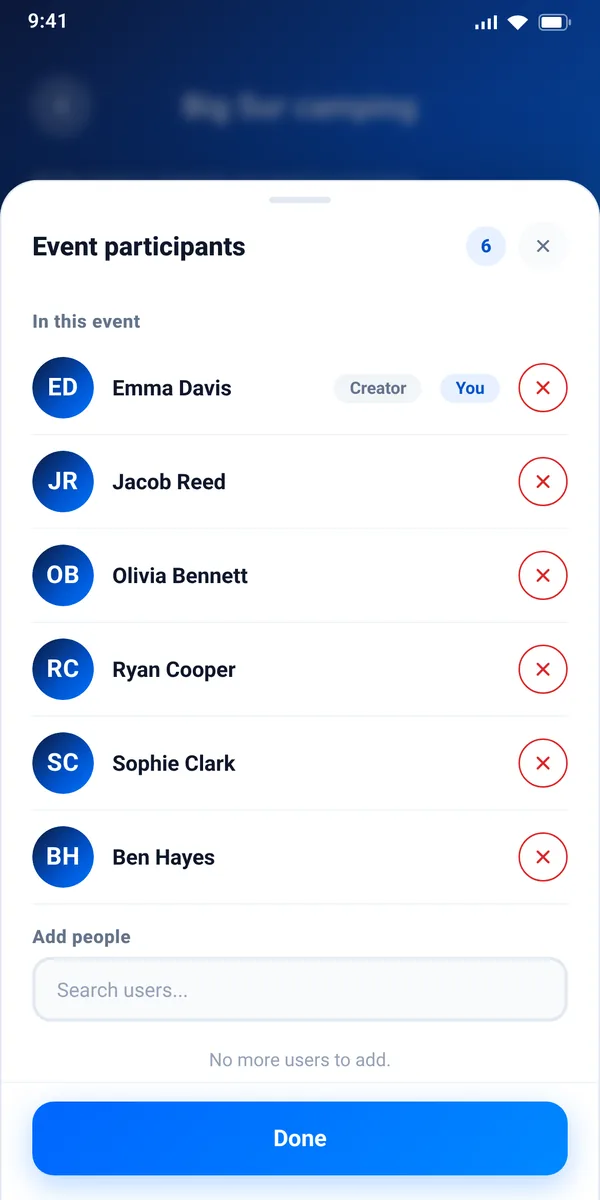
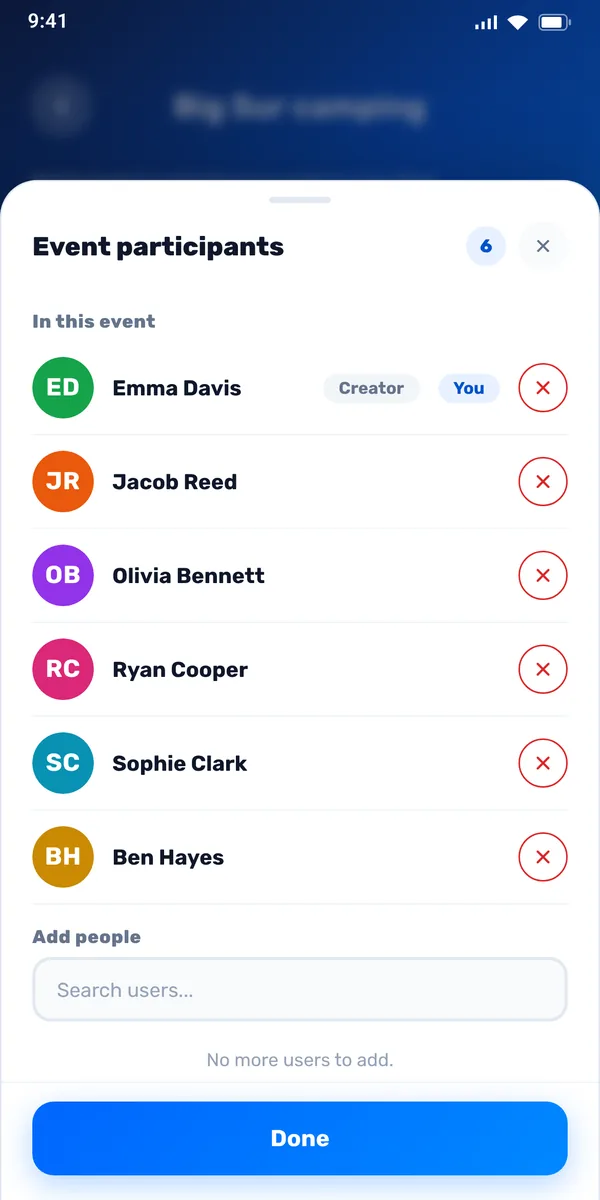
Landing: new screens (who buys what, colors, PDF summary), 3 new features, 2 FAQs; terms: copying and sharing the PDF summary
Claude-Session: https://claude.ai/code/session_01DxTXR77ZP1tksXMHBDh7hU

diff --git a/index.html b/index.html
@@ -300,9 +300,12 @@ footer{padding:40px 0 56px;color:var(--muted);font-size:.92rem}
         <div class="feat rv"><div class="ic">💸</div><h3 data-t="ft1">חלוקת הוצאות</h3><p data-t="fd1">שווה בשווה, רק בין חלק מהמשתתפים או בסכומים ידניים. המאזן מתעדכן לבד.</p></div>
         <div class="feat rv"><div class="ic">🤝</div><h3 data-t="ft2">מי חייב למי</h3><p data-t="fd2">האפליקציה מצמצמת את מספר ההעברות למינימום, ואפשר לסגור חוב בלחיצה דרך Bit.</p></div>
         <div class="feat rv"><div class="ic">💱</div><h3 data-t="ft3">כמה מטבעות</h3><p data-t="fd3">משלמים באירו ומתחשבנים בשקלים. ההמרה נעשית לפי שער עדכני, ויש גם מחשבון המרה מהיר.</p></div>
-        <div class="feat rv"><div class="ic">🗺</div><h3 data-t="ft4">מסלול ולוח זמנים</h3><p data-t="fd4">פעילויות לפי ימים ושעות, ניווט מהיר לכל נקודה, וכל אחד מסמן אם הוא מגיע. יוצאים שוב? מעתיקים מסלול, ציוד וקניות מאירוע קודם מאותו סוג (בארץ או בחו״ל).</p></div>
+        <div class="feat rv"><div class="ic">🗺</div><h3 data-t="ft4">מסלול ולוח זמנים</h3><p data-t="fd4">פעילויות לפי ימים ושעות, ניווט מהיר לכל נקודה, וכל אחד מסמן אם הוא מגיע.</p></div>
         <div class="feat rv"><div class="ic">⛺</div><h3 data-t="ft5">ציוד וקניות</h3><p data-t="fd5">רשימה משותפת עם צבע לכל אחד (ואפשר לבחור את הצבע שלך): מי מביא ומי קונה מה, לחיצה על "אני אקנה" ותצוגה של מה שלי. קנייה שבוצעה נרשמת כהוצאה בלחיצה.</p></div>
-        <div class="feat rv"><div class="ic">⚡</div><h3 data-t="ft6">סנכרון בזמן אמת</h3><p data-t="fd6">כל שינוי מופיע מיד אצל כולם, עם התראות על מה שחשוב. בשטח, בלי קליטה, ממשיכים לצפות במה שנשמר בטלפון. שינויים נעשים כשחוזר החיבור.</p></div>
+        <div class="feat rv"><div class="ic">⚡</div><h3 data-t="ft6">סנכרון בזמן אמת</h3><p data-t="fd6">כל שינוי מופיע מיד אצל כולם, עם התראות על מה שחשוב.</p></div>
+        <div class="feat rv"><div class="ic">📄</div><h3 data-t="ft7">סיכום האירוע ב-PDF</h3><p data-t="fd7">מסלול, הוצאות, מי מעביר למי, ציוד וקניות במסמך אחד מעוצב. נשלח לקבוצה בלחיצה, גם באמצע הטיול.</p></div>
+        <div class="feat rv"><div class="ic">📋</div><h3 data-t="ft8">יוצאים שוב? מעתיקים</h3><p data-t="fd8">מעתיקים מסלול, ציוד וקניות מאירוע קודם מאותו סוג (בארץ או בחו״ל), בלי להקליד הכל מחדש.</p></div>
+        <div class="feat rv"><div class="ic">📡</div><h3 data-t="ft9">צפייה גם בלי קליטה</h3><p data-t="fd9">בשטח, בלי קליטה, ממשיכים לצפות במה שנשמר בטלפון. שינויים נעשים כשחוזר החיבור.</p></div>
       </div>
     </div>
   </section>
@@ -333,11 +336,11 @@ footer{padding:40px 0 56px;color:var(--muted);font-size:.92rem}
       <div class="show">
         <div class="show-text rv">
           <span class="eyebrow" data-t="sh3_eb">ציוד וקניות</span>
-          <h3 data-t="sh3_h">אף אחד לא שוכח את הפחמים</h3>
-          <p data-t="sh3_p">רשימה אחת לכל מה שצריך להביא ולקנות. משייכים כל פריט למישהו, מסמנים כשזה מוכן, ורואים מה עוד חסר.</p>
-          <ul class="ticks"><li data-t="sh3_l1">ציוד, משימות ורשימת קניות משותפת</li><li data-t="sh3_l2">שיוך כל פריט למשתתף</li><li data-t="sh3_l3">רואים מיד מה כבר מכוסה</li></ul>
+          <h3 data-t="sh3_h">מי מביא, מי קונה, ומה כבר נקנה</h3>
+          <p data-t="sh3_p">לכל משתתף צבע משלו. כל אחד לוחץ "אני אקנה" או "אני אביא", רואים את הרשימה לפי אחראי, ומה שנקנה נרשם כהוצאה בלחיצה, בלי לספור פעמיים.</p>
+          <ul class="ticks"><li data-t="sh3_l1">צבע לכל משתתף, ואפשר לבחור את שלך</li><li data-t="sh3_l2">תצוגה לפי קטגוריה, לפי אחראי, או רק מה שלי</li><li data-t="sh3_l3">קנייה שבוצעה הופכת להוצאה בלחיצה</li></ul>
         </div>
-        <div class="show-visual rv"><div class="phone real"><div class="screen"><img class="shot" data-shot="07-gear" data-ta="alt_07" src="assets/img/screens/he/07-gear.webp" width="600" height="1200" alt="רשימת ציוד ומשימות לפי מי מביא מה" loading="lazy" decoding="async"><div class="notch"></div></div></div></div>
+        <div class="show-visual rv"><div class="phone real"><div class="screen"><img class="shot" data-shot="12-shopping-by-person" data-ta="alt_12" src="assets/img/screens/he/12-shopping-by-person.webp" width="600" height="1200" alt="רשימת קניות לפי מי קונה, עם צבע לכל משתתף" loading="lazy" decoding="async"><div class="notch"></div></div></div></div>
       </div>
       <div class="show flip">
         <div class="show-text rv">
@@ -367,10 +370,10 @@ footer{padding:40px 0 56px;color:var(--muted);font-size:.92rem}
     <div class="wrap">
       <div class="sec-head center rv"><span class="eyebrow" data-t="sc_eb">הצצה לאפליקציה</span><h2 data-t="sc_h">ככה זה נראה בטלפון</h2><p class="lead" data-t="sc_p">מסכים אמיתיים מהאפליקציה, עם טיול לדוגמה.</p></div>
       <div class="strip rv">
-        <figure><div class="phone real sm"><div class="screen"><img class="shot" data-shot="02-trip-hub" data-ta="alt_02" src="assets/img/screens/he/02-trip-hub.webp" width="600" height="1200" alt="מסך האירוע: תקציב והוצאות, ציוד וקניות, מסלול ותמונות" loading="lazy" decoding="async"><div class="notch"></div></div></div><figcaption><span data-t="scf1">כל הכלים של האירוע</span><small data-t="scs1">תקציב, ציוד, מסלול ותמונות</small></figcaption></figure>
+        <figure><div class="phone real sm"><div class="screen"><img class="shot" data-shot="02-trip-hub" data-ta="alt_02" src="assets/img/screens/he/02-trip-hub.webp" width="600" height="1200" alt="מסך האירוע: תקציב והוצאות, ציוד וקניות, מסלול ותמונות" loading="lazy" decoding="async"><div class="notch"></div></div></div><figcaption><span data-t="scf1">כל הכלים של האירוע</span><small data-t="scs1">תקציב, ציוד, מסלול, תמונות וסיכום PDF</small></figcaption></figure>
         <figure><div class="phone real sm"><div class="screen"><img class="shot" data-shot="05-add-expense" data-ta="alt_05" src="assets/img/screens/he/05-add-expense.webp" width="600" height="1200" alt="הוספת הוצאה חדשה עם מי שילם ואופן החלוקה" loading="lazy" decoding="async"><div class="notch"></div></div></div><figcaption><span data-t="scf2">הוספת הוצאה</span><small data-t="scs2">מי שילם ואיך מתחלקים</small></figcaption></figure>
-        <figure><div class="phone real sm"><div class="screen"><img class="shot" data-shot="03-members" data-ta="alt_03" src="assets/img/screens/he/03-members.webp" width="600" height="1200" alt="ניהול המשתתפים באירוע" loading="lazy" decoding="async"><div class="notch"></div></div></div><figcaption><span data-t="scf3">ניהול משתתפים</span><small data-t="scs3">מזמינים חברים מאנשי הקשר</small></figcaption></figure>
-        <figure><div class="phone real sm"><div class="screen"><img class="shot" data-shot="08-shopping" data-ta="alt_08" src="assets/img/screens/he/08-shopping.webp" width="600" height="1200" alt="רשימת קניות משותפת לפי קטגוריות" loading="lazy" decoding="async"><div class="notch"></div></div></div><figcaption><span data-t="scf4">רשימת קניות משותפת</span><small data-t="scs4">מסודרת לפי קטגוריות</small></figcaption></figure>
+        <figure><div class="phone real sm"><div class="screen"><img class="shot" data-shot="07-gear" data-ta="alt_07" src="assets/img/screens/he/07-gear.webp" width="600" height="1200" alt="ציוד ומשימות לפי מי מביא מה, עם צבע לכל משתתף" loading="lazy" decoding="async"><div class="notch"></div></div></div><figcaption><span data-t="scf3">ציוד ומשימות</span><small data-t="scs3">מי מביא מה, בצבע של כל אחד</small></figcaption></figure>
+        <figure><div class="phone real sm"><div class="screen"><img class="shot" data-shot="13-settings" data-ta="alt_13" src="assets/img/screens/he/13-settings.webp" width="600" height="1200" alt="הגדרות: שפה, מטבע ובחירת הצבע שלך" loading="lazy" decoding="async"><div class="notch"></div></div></div><figcaption><span data-t="scf4">הצבע שלך</span><small data-t="scs4">בוחרים צבע שמסמן אותך אצל כולם</small></figcaption></figure>
         <figure><div class="phone real sm"><div class="screen"><img class="shot" data-shot="11-sign-in" data-ta="alt_11" src="assets/img/screens/he/11-sign-in.webp" width="600" height="1200" alt="מסך הכניסה: עם Google או קוד למייל" loading="lazy" decoding="async"><div class="notch"></div></div></div><figcaption><span data-t="scf5">כניסה בשניות</span><small data-t="scs5">עם Google או קוד למייל</small></figcaption></figure>
       </div>
     </div>
@@ -406,6 +409,8 @@ footer{padding:40px 0 56px;color:var(--muted);font-size:.92rem}
         <details class="rv"><summary data-t="q5">האפליקציה מעבירה כסף?</summary><p data-t="a5">לא. SyncGo מחשבת ומראה מי צריך להעביר למי. את ההעברה עצמה עושים באפליקציית תשלומים כמו Bit, ומסמנים באפליקציה שהחוב נסגר.</p></details>
         <details class="rv"><summary data-t="q6">באיזה מכשירים זה עובד?</summary><p data-t="a6">SyncGo יוצאת קודם ל-Android ב-Google Play, ומיד אחר כך ל-iPhone ב-App Store.</p></details>
         <details class="rv"><summary data-t="q7">איך מוחקים את החשבון?</summary><p data-t="a7" data-html>בהגדרות ואזור אישי, תחת ניהול חשבון. כל הפרטים בעמוד <a href="delete-account.html" style="color:var(--bright)">מחיקת חשבון</a>.</p></details>
+        <details class="rv"><summary data-t="q8">זה עובד בלי קליטה?</summary><p data-t="a8">אפשר לצפות בכל מה שכבר נפתח בטלפון: מסלול, הוצאות, ציוד וקניות. כדי להוסיף או לשנות צריך חיבור, והאפליקציה מראה מתי הנתונים עודכנו לאחרונה.</p></details>
+        <details class="rv"><summary data-t="q9">אפשר לקבל סיכום של כל האירוע?</summary><p data-t="a9">כן. במסך האירוע לוחצים על "סיכום האירוע (PDF)" ומקבלים מסמך מעוצב עם המסלול, ההוצאות, מי מעביר למי, הציוד והקניות, מוכן לשליחה בוואטסאפ או במייל.</p></details>
       </div>
     </div>
   </section>
@@ -462,15 +467,15 @@ const T = {
   ft1:'Split expenses',fd1:'Equally, between some of the group or by custom amounts. Balances update on their own.',
   ft2:'Who owes whom',fd2:'The app keeps the number of transfers to a minimum, and you can settle a debt in a tap with Bit (in Israel).',
   ft3:'Multiple currencies',fd3:'Pay in euros, settle in shekels or dollars. Conversion uses a current rate, plus a quick currency converter.',
-  ft4:'Itinerary & schedule',fd4:'Activities by day and time, one-tap navigation to every stop, and everyone marks if they\'re coming. Going again? Copy the itinerary, gear and shopping from a past event of the same kind (at home or abroad).',
+  ft4:'Itinerary & schedule',fd4:'Activities by day and time, one-tap navigation to every stop, and everyone marks if they\'re coming.',
   ft5:'Gear & shopping',fd5:'A shared list with a color for each person (pick your own): who brings and who buys what, an "I\'ll buy it" button and a "mine" view. Turn a finished shop into an expense in a tap.',
-  ft6:'Real-time sync',fd6:'Every change shows up for everyone instantly, with notifications for what matters. Out of signal? You can still view what\'s saved on your phone; changes wait until you\'re back online.',
+  ft6:'Real-time sync',fd6:'Every change shows up for everyone instantly, with notifications for what matters.',ft7:'Event summary as a PDF',fd7:'Itinerary, expenses, who pays whom, gear and shopping in one designed document. Send it to the group in a tap, even mid-trip.',ft8:'Going again? Copy it',fd8:'Copy the itinerary, gear and shopping from a past event of the same kind (at home or abroad), no retyping.',ft9:'View without signal',fd9:'Out of signal? Keep viewing what\'s saved on your phone; changes wait until you\'re back online.',
   sh1_eb:'Expenses',sh1_h:'No more "wait, how much do I owe?"',sh1_p:'Every expense is entered once, and each person\'s balance is calculated automatically. At the end you see exactly who pays whom and how much: no calculator, no awkwardness.',
   sh1_l1:'Split equally, between some people or by custom amounts',sh1_l2:'The fewest transfers to settle every debt',sh1_l3:'Settle up in a tap with Bit',
   sh2_eb:'Itinerary',sh2_h:'A schedule everyone actually sees',sh2_p:'Instead of scrolling for the message with the time, the plan lives in one place. Change a time and everyone gets an update.',
   sh2_l1:'Activities by day and time',sh2_l2:'One-tap navigation to every stop',sh2_l3:'Everyone marks if they\'re coming',
-  sh3_eb:'Gear & shopping',sh3_h:'Nobody forgets the charcoal',sh3_p:'One list for everything to bring and buy. Assign each item to someone, tick it when it\'s ready and see what\'s still missing.',
-  sh3_l1:'Gear, tasks and a shared shopping list',sh3_l2:'Assign every item to a person',sh3_l3:'See at a glance what\'s covered',
+  sh3_eb:'Gear & shopping',sh3_h:'Who brings, who buys, and what\'s already bought',sh3_p:'Everyone has their own color. Tap "I\'ll buy it" or "I\'ll bring it", see the list by person, and turn what was bought into an expense in a tap, never counted twice.',
+  sh3_l1:'A color for every participant, pick your own',sh3_l2:'View by category, by person, or just mine',sh3_l3:'A finished shop becomes an expense in a tap',
   p_h:'Your data stays yours',p_p:'We collect only what the app needs to work, and we never sell data to anyone. Full details in the <a href="privacy.html">privacy policy</a>.',
   p_1:'No ads and no ad tracking',p_2:'Encrypted traffic, and each event is visible only to its members',p_3:'Contacts are used only to find friends, and are not stored',p_4:'Delete your account at any time, from inside the app',
   q_eb:'FAQ',q_h:'Questions? Answers.',
@@ -480,10 +485,10 @@ const T = {
   q4:'Can I add expenses in a foreign currency?',a4:'Yes. Pick a local currency for the destination and a settlement currency, and conversion uses a current rate.',
   q5:'Does the app move money?',a5:'No. SyncGo calculates and shows who should pay whom. The transfer itself happens in a payments app such as Bit, and you mark the debt as settled in SyncGo.',
   q6:'Which devices does it work on?',a6:'SyncGo launches first on Android in Google Play, followed shortly by iPhone in the App Store.',
-  q7:'How do I delete my account?',a7:'In Settings & Account, under Account management. Full details on the <a href="delete-account.html" style="color:var(--bright)">delete account</a> page.',
+  q7:'How do I delete my account?',a7:'In Settings & Account, under Account management. Full details on the <a href="delete-account.html" style="color:var(--bright)">delete account</a> page.',q8:'Does it work without signal?',a8:'You can view everything already opened on your phone: itinerary, expenses, gear and shopping. Adding or changing things needs a connection, and the app shows when the data was last updated.',q9:'Can I get a summary of the whole event?',a9:'Yes. On the event screen tap "Event summary (PDF)" to get a designed document with the itinerary, expenses, who pays whom, gear and shopping, ready to send on WhatsApp or by email.',
   d_h:'Ready to go?',d_p:'SyncGo is launching soon. Your first event is a minute away.',soon:'Coming soon to',
   privacy:'Privacy policy',terms:'Terms of use',del:'Delete account',
-  alt_01:'The My events & trips screen in SyncGo, with your balance in each event',alt_04:'Event expenses and who owes whom',alt_06:'The trip itinerary by day and time, with navigation and who is coming',alt_07:'Gear and tasks grouped by who brings what',alt_10:'Currency converter with a current rate',alt_09:'The trip\'s shared photo albums',alt_02:'The event screen: budget & expenses, gear & shopping, itinerary and photos',alt_05:'Adding an expense: who paid and how to split it',alt_03:'Managing the participants of an event',alt_08:'A shared shopping list by category',alt_11:'Sign-in screen: with Google or an email code',sh4_eb:'Currencies',sh4_h:'Abroad? Convert in a tap',sh4_p:'A built-in converter with a current rate that already knows your trip\'s local and settlement currencies. Pay in euros, settle in dollars.',sh4_l1:'29 popular currencies',sh4_l2:'Rates are saved on your phone, so they work without signal too',sh4_l3:'Foreign-currency expenses are converted in the balance automatically',sh5_eb:'Photos',sh5_h:'Every trip photo, in one place',sh5_p:'Add a link to a Google Photos, iCloud or any shared album, and the whole group finds it right inside the event. No more digging through the chat.',sh5_l1:'An album for every day or every moment',sh5_l2:'See who shared each album',sh5_l3:'Opens in a tap on your phone',sc_eb:'A look inside',sc_h:'Here\'s how it looks on your phone',sc_p:'Real screens from the app, with a sample trip.',scf1:'Every tool for the event',scs1:'Budget, gear, itinerary and photos',scf2:'Add an expense',scs2:'Who paid and how to split it',scf3:'Manage participants',scs3:'Invite friends from your contacts',scf4:'Shared shopping list',scs4:'Sorted by category',scf5:'Sign in in seconds',scs5:'With Google or an email code',
+  alt_01:'The My events & trips screen in SyncGo, with your balance in each event',alt_04:'Event expenses and who owes whom',alt_06:'The trip itinerary by day and time, with navigation and who is coming',alt_07:'Gear and tasks by who brings what, with a color for each participant',alt_10:'Currency converter with a current rate',alt_09:'The trip\'s shared photo albums',alt_02:'The event screen: budget & expenses, gear & shopping, itinerary, photos and the PDF summary',alt_05:'Adding an expense: who paid and how to split it',alt_03:'Managing the participants of an event',alt_08:'A shared shopping list by category',alt_12:'Shopping list by who buys it, with a color for each participant',alt_13:'Settings: language, currency and picking your color',alt_11:'Sign-in screen: with Google or an email code',sh4_eb:'Currencies',sh4_h:'Abroad? Convert in a tap',sh4_p:'A built-in converter with a current rate that already knows your trip\'s local and settlement currencies. Pay in euros, settle in dollars.',sh4_l1:'29 popular currencies',sh4_l2:'Rates are saved on your phone, so they work without signal too',sh4_l3:'Foreign-currency expenses are converted in the balance automatically',sh5_eb:'Photos',sh5_h:'Every trip photo, in one place',sh5_p:'Add a link to a Google Photos, iCloud or any shared album, and the whole group finds it right inside the event. No more digging through the chat.',sh5_l1:'An album for every day or every moment',sh5_l2:'See who shared each album',sh5_l3:'Opens in a tap on your phone',sc_eb:'A look inside',sc_h:'Here\'s how it looks on your phone',sc_p:'Real screens from the app, with a sample trip.',scf1:'Every tool for the event',scs1:'Budget, gear, itinerary, photos and a PDF summary',scf2:'Add an expense',scs2:'Who paid and how to split it',scf3:'Gear & tasks',scs3:'Who brings what, in their color',scf4:'Your color',scs4:'Pick the color everyone sees for you',scf5:'Sign in in seconds',scs5:'With Google or an email code',
   title:'SyncGo · The whole group, on one route'
  }
 };

diff --git a/terms.html b/terms.html
@@ -26,25 +26,25 @@ footer .bar{flex-wrap:wrap;gap:14px;justify-content:center}footer a{color:var(--
 <header><div class="bar"><a class="brand" href="/"><img src="assets/img/logo.png" alt="">SyncGo</a><button id="lang" type="button">English</button></div></header>
 <main>
 <section lang-block="he" dir="rtl">
-<h1>תנאי שימוש</h1><p class="meta">עודכן לאחרונה: 19 בנובמבר 2026</p>
+<h1>תנאי שימוש</h1><p class="meta">עודכן לאחרונה: 21 בנובמבר 2026</p>
 <p>השימוש ב-SyncGo כפוף לתנאים האלה. אם אינך מסכים להם, אל תשתמש באפליקציה.</p>
 <h2>1. השירות</h2><p>SyncGo עוזרת לקבוצות לתכנן אירועים, לשתף מסלול ורשימות ולחשב חלוקת הוצאות. השירות ניתן כפי שהוא (AS IS). אנחנו משפרים אותו כל הזמן, ולכן תכונות יכולות להשתנות.</p>
 <h2>2. החשבון שלך</h2><p>עליך למסור פרטים נכונים ולשמור על הגישה לחשבון. אתה אחראי לפעילות שנעשית בחשבון שלך. השימוש מותר מגיל 13 ומעלה.</p>
 <h2>3. שימוש מותר</h2><p>אסור להשתמש בשירות לפעילות בלתי חוקית, להטרדה, לשליחת ספאם, להעלאת תוכן פוגעני או מפר זכויות, או לניסיון לפרוץ את המערכת או להעמיס עליה. אנחנו רשאים להשעות חשבון שמפר את התנאים.</p>
-<h2>4. התוכן שלך</h2><p>התוכן שאתה יוצר שייך לך. אתה נותן לנו רשות להשתמש בו רק כדי להפעיל את השירות ולהציג אותו לחברי האירוע. קישורים לאלבומים מובילים לשירותים חיצוניים, והאחריות עליהם היא של מי ששיתף אותם.</p>
-<h2>5. חישובי הוצאות ומטבע</h2><p>חלוקת ההוצאות והמרות המטבע מחושבות לפי הנתונים שהוזנו ושערים ממקור חיצוני. הן נועדו לעזור בהתחשבנות, ואינן ייעוץ פיננסי או מסמך חשבונאי. העברות כספים בין המשתמשים מתבצעות מחוץ ל-SyncGo (למשל באפליקציית תשלומים), ו-SyncGo אינה צד להן.</p>
+<h2>4. התוכן שלך</h2><p>התוכן שאתה יוצר שייך לך. אתה נותן לנו רשות להשתמש בו רק כדי להפעיל את השירות ולהציג אותו לחברי האירוע. קישורים לאלבומים מובילים לשירותים חיצוניים, והאחריות עליהם היא של מי ששיתף אותם. כשאתה מעתיק פריטים לאירוע אחר או משתף את סיכום האירוע (PDF) מחוץ לאפליקציה, אתה אחראי לכך שמותר לך לשתף את מה שבו עם מי ששלחת אליו.</p>
+<h2>5. חישובי הוצאות ומטבע</h2><p>חלוקת ההוצאות והמרות המטבע מחושבות לפי הנתונים שהוזנו ושערים ממקור חיצוני. הן נועדו לעזור בהתחשבנות, ואינן ייעוץ פיננסי או מסמך חשבונאי. העברות כספים בין המשתמשים מתבצעות מחוץ ל-SyncGo (למשל באפליקציית תשלומים), ו-SyncGo אינה צד להן. גם סיכום האירוע (PDF) מבוסס על מה שהוזן באפליקציה ברגע יצירתו, ואינו קבלה או מסמך חשבונאי.</p>
 <h2>6. אחריות</h2><p>ככל שהחוק מתיר, SyncGo אינה אחראית לנזק עקיף או תוצאתי, לאובדן מידע, או לסכסוכים בין משתמשים. כדאי לבדוק מידע חשוב (מועדים, סכומים) לפני שמסתמכים עליו.</p>
 <h2>7. סיום</h2><p>אפשר להפסיק להשתמש ולמחוק את החשבון בכל עת (<a href="delete-account.html">מחיקת חשבון</a>).</p>
 <h2>8. שינויים, דין וקשר</h2><p>אם התנאים ישתנו, נעדכן את התאריך בראש העמוד. על התנאים יחול הדין הישראלי, אלא אם החוק במקום מגוריך מחייב אחרת. שאלות: <a href="mailto:support@syncgo.app">support@syncgo.app</a>.</p>
 </section>
 <section lang-block="en" dir="ltr">
-<h1>Terms of Use</h1><p class="meta">Last updated: 2026-11-19</p>
+<h1>Terms of Use</h1><p class="meta">Last updated: 2026-11-21</p>
 <p>Your use of SyncGo is subject to these terms. If you do not agree, please do not use the app.</p>
 <h2>1. The service</h2><p>SyncGo helps groups plan events, share itineraries and lists, and split expenses. It is provided “as is”. We improve it continuously, so features may change.</p>
 <h2>2. Your account</h2><p>Provide accurate information and keep access to your account secure. You are responsible for activity under your account. You must be at least 13 years old.</p>
 <h2>3. Acceptable use</h2><p>Do not use the service for illegal activity, harassment, spam, offensive or infringing content, or attempts to break into or overload the system. We may suspend accounts that violate these terms.</p>
-<h2>4. Your content</h2><p>Content you create is yours. You allow us to use it only to operate the service and show it to members of the event. Album links point to external services and are the responsibility of whoever shared them.</p>
-<h2>5. Expense and currency calculations</h2><p>Expense splits and currency conversions are calculated from the data entered and rates from an external source. They are meant to help you settle up and are not financial or accounting advice. Payments between users happen outside SyncGo (e.g. in a payments app), and SyncGo is not a party to them.</p>
+<h2>4. Your content</h2><p>Content you create is yours. You allow us to use it only to operate the service and show it to members of the event. Album links point to external services and are the responsibility of whoever shared them. When you copy items into another event or share the event summary (PDF) outside the app, you are responsible for being allowed to share what it contains with the people you send it to.</p>
+<h2>5. Expense and currency calculations</h2><p>Expense splits and currency conversions are calculated from the data entered and rates from an external source. They are meant to help you settle up and are not financial or accounting advice. Payments between users happen outside SyncGo (e.g. in a payments app), and SyncGo is not a party to them. The event summary (PDF) also reflects what was entered in the app when it was created, and is not a receipt or an accounting document.</p>
 <h2>6. Liability</h2><p>To the extent permitted by law, SyncGo is not liable for indirect or consequential damages, data loss, or disputes between users. Please double-check important information (dates, amounts) before relying on it.</p>
 <h2>7. Termination</h2><p>You may stop using SyncGo and delete your account at any time (<a href="delete-account.html">Delete account</a>).</p>
 <h2>8. Changes, law and contact</h2><p>If these terms change we will update the date above. These terms are governed by the laws of Israel unless the law where you live requires otherwise. Questions: <a href="mailto:support@syncgo.app">support@syncgo.app</a>.</p>
